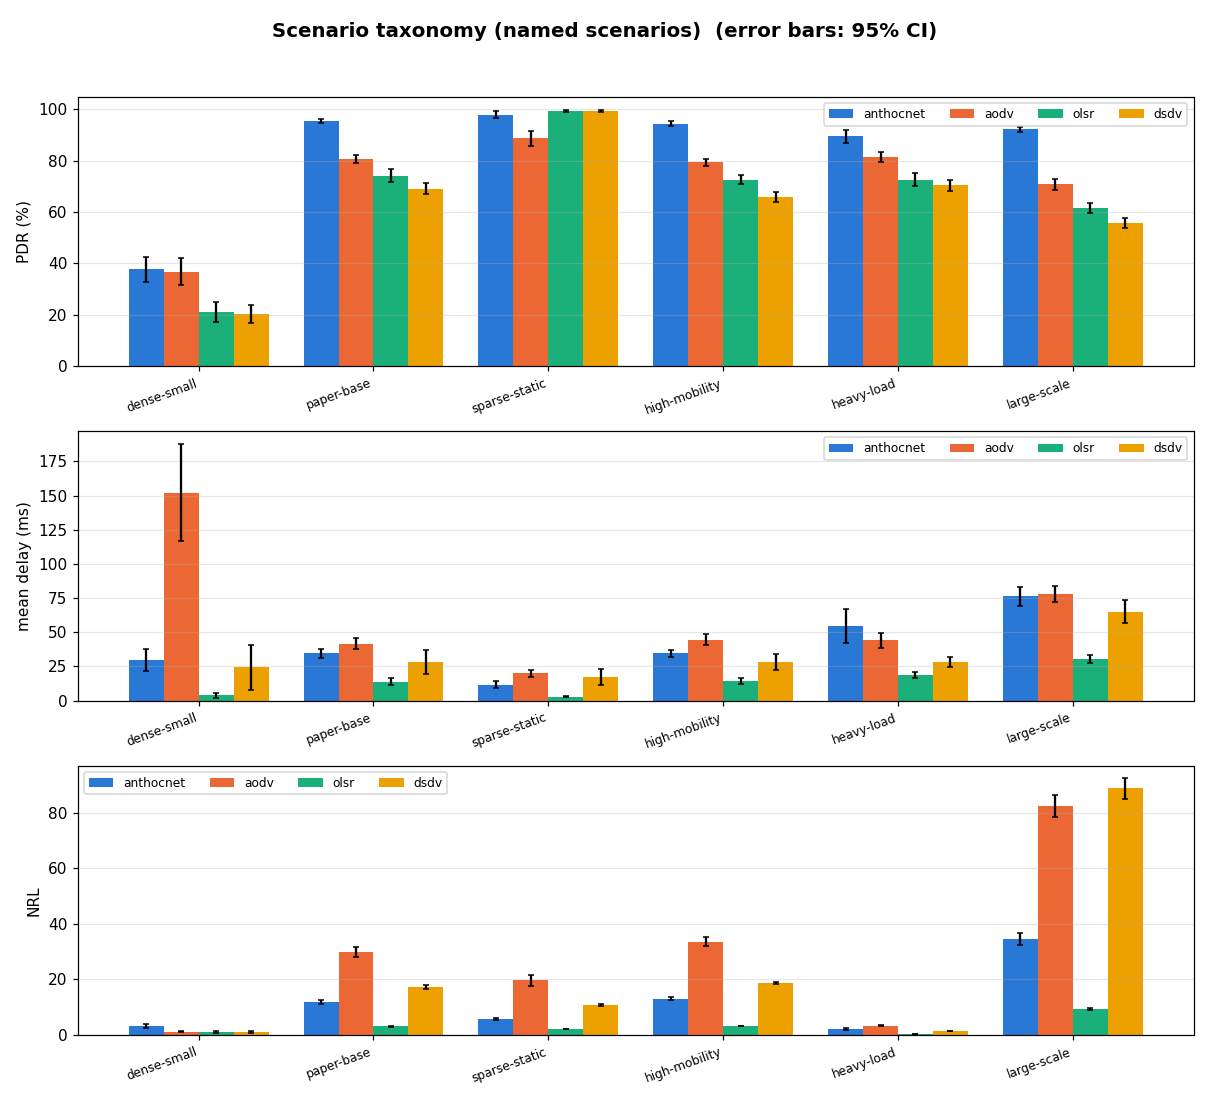
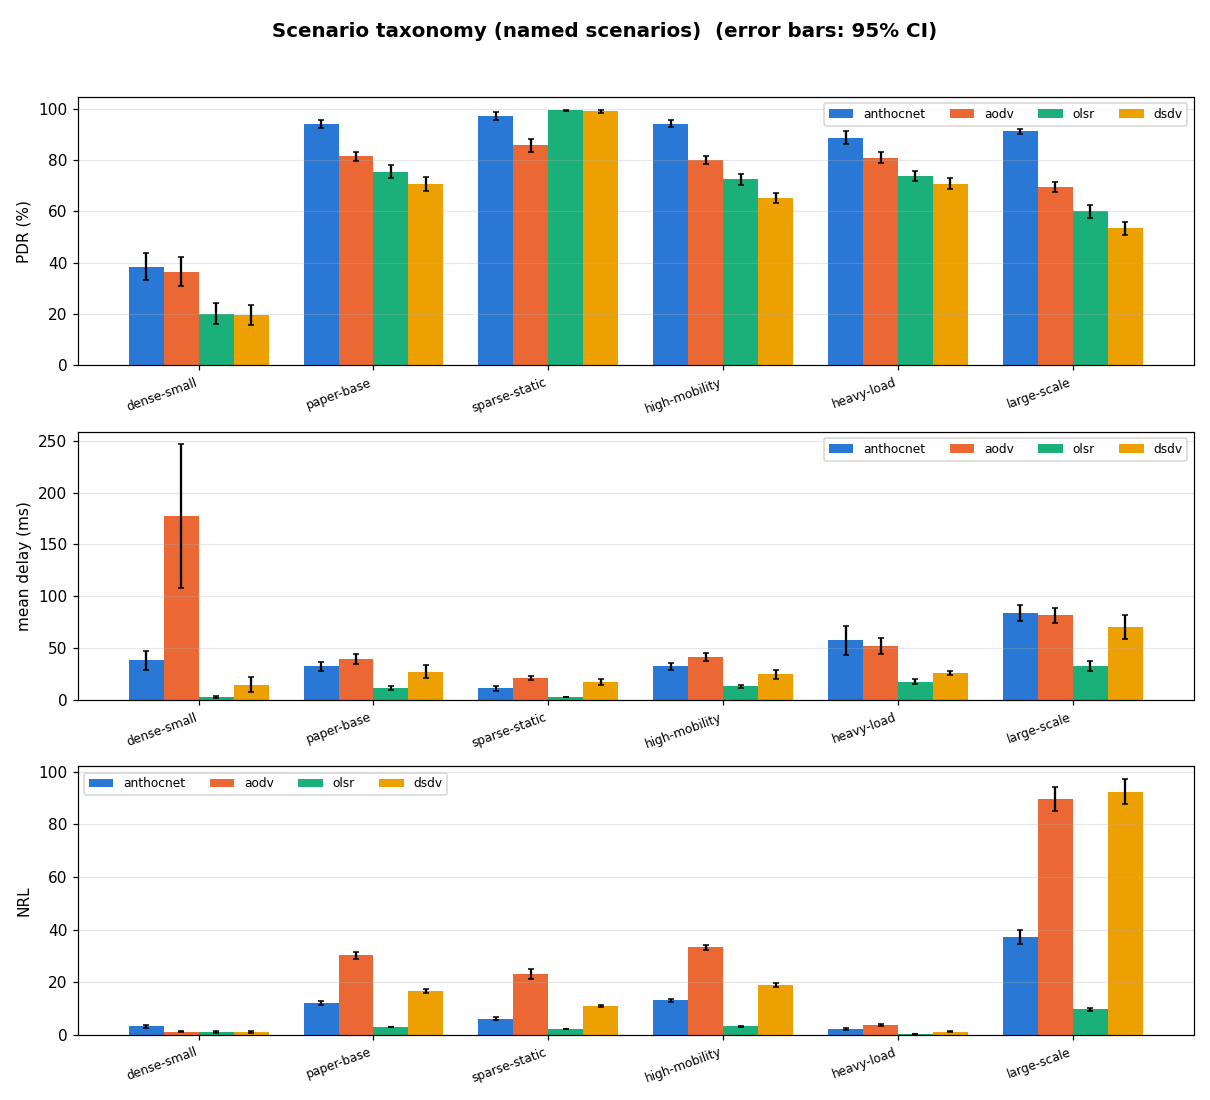
chore(benchmarks): refresh benchmark results and charts

diff --git a/docs/benchmarks.md b/docs/benchmarks.md
@@ -127,18 +127,18 @@ code. The heavier parameter sweeps are campaigns on `benchmark-cell`.
 <!-- BENCHMARK-TABLE-START -->
 _Scenario taxonomy — **PDR % ± 95% CI**, mean of 20 run(s) per scenario, every baseline on identical realisations. Full per-scenario metrics (delay, tail, NRL, jitter) are on the linked pages. Generated by `run-scenarios.py`; charts by `make-charts.py`._
 
-_Measured at [`7c36c77`](https://github.com/swarm-routing/AntHocNet/commit/7c36c77f3a5243fed91169f02ef9d0095b7a404b) on `ghcr.io/swarm-routing/anthocnet-dev@sha256:8c90c2fb7d8253f2d3a864450110948cd969e48e3fefcf8ee9f2a18bd94a6136`, ns-3 3.48, [run](https://github.com/swarm-routing/AntHocNet/actions/runs/44528917983)._
+_Measured at [`1d52eba`](https://github.com/swarm-routing/AntHocNet/commit/1d52ebac5f645edd69722b1642963fb0dd3cf599) on `ghcr.io/swarm-routing/anthocnet-dev@sha256:2d926f73cea1dc384db14dd234645a957e2d0c2cd2a3098986e5b7bc6695ebef`, ns-3 3.49, [run](https://github.com/swarm-routing/AntHocNet/actions/runs/45418533599)._
 
 ![scenario taxonomy](benchmarks/discrete-summary.png)
 
 | scenario | class | anthocnet | aodv | olsr | dsdv |
 |---|---|---:|---:|---:|---:|
-| [dense-small](benchmarks/scenarios/dense-small.md) | dense / low-mobility | 37.7 ± 4.8 | 36.7 ± 5.2 | 21.2 ± 3.9 | 20.3 ± 3.6 |
-| [paper-base](benchmarks/scenarios/paper-base.md) | sparse / mobile | 95.4 ± 0.7 | 80.6 ± 1.7 | 74.1 ± 2.5 | 69.0 ± 2.2 |
-| [sparse-static](benchmarks/scenarios/sparse-static.md) | sparse / static | 97.9 ± 1.3 | 88.7 ± 3.0 | 99.4 ± 0.4 | 99.2 ± 0.4 |
-| [high-mobility](benchmarks/scenarios/high-mobility.md) | sparse / high-mobility | 94.4 ± 0.9 | 79.3 ± 1.4 | 72.6 ± 1.9 | 65.9 ± 1.9 |
-| [heavy-load](benchmarks/scenarios/heavy-load.md) | dense / heavy-load | 89.4 ± 2.6 | 81.3 ± 2.0 | 72.6 ± 2.6 | 70.3 ± 2.1 |
-| [large-scale](benchmarks/scenarios/large-scale.md) | large / mobile | 92.2 ± 1.0 | 70.7 ± 2.0 | 61.6 ± 2.0 | 55.6 ± 1.9 |
+| [dense-small](benchmarks/scenarios/dense-small.md) | dense / low-mobility | 38.5 ± 5.4 | 36.5 ± 5.7 | 20.1 ± 4.0 | 19.6 ± 4.1 |
+| [paper-base](benchmarks/scenarios/paper-base.md) | sparse / mobile | 94.1 ± 1.5 | 81.6 ± 1.8 | 75.5 ± 2.5 | 70.6 ± 2.8 |
+| [sparse-static](benchmarks/scenarios/sparse-static.md) | sparse / static | 97.3 ± 1.5 | 85.8 ± 2.6 | 99.5 ± 0.2 | 99.0 ± 0.4 |
+| [high-mobility](benchmarks/scenarios/high-mobility.md) | sparse / high-mobility | 94.3 ± 1.3 | 80.1 ± 1.6 | 72.5 ± 2.1 | 65.4 ± 2.0 |
+| [heavy-load](benchmarks/scenarios/heavy-load.md) | dense / heavy-load | 88.8 ± 2.5 | 80.9 ± 2.1 | 73.9 ± 1.9 | 70.9 ± 2.2 |
+| [large-scale](benchmarks/scenarios/large-scale.md) | large / mobile | 91.2 ± 1.1 | 69.6 ± 1.9 | 60.0 ± 2.7 | 53.5 ± 2.5 |
 
 <!-- BENCHMARK-TABLE-END -->
 

diff --git a/docs/benchmarks/scenarios/heavy-load.md b/docs/benchmarks/scenarios/heavy-load.md
@@ -51,13 +51,13 @@ cbrBps=4096`). The nightly `benchmarks` workflow runs the taxonomy at 20 seeds
 <!-- BENCHMARK-TABLE-START -->
 _Mean of 20 run(s), every baseline on identical realisations; ± is the 95% CI half-width (#293). Generated by `run-scenarios.py`._
 
-_Measured at [`7c36c77`](https://github.com/swarm-routing/AntHocNet/commit/7c36c77f3a5243fed91169f02ef9d0095b7a404b) on `ghcr.io/swarm-routing/anthocnet-dev@sha256:8c90c2fb7d8253f2d3a864450110948cd969e48e3fefcf8ee9f2a18bd94a6136`, ns-3 3.48, [run](https://github.com/swarm-routing/AntHocNet/actions/runs/44528917983)._
+_Measured at [`1d52eba`](https://github.com/swarm-routing/AntHocNet/commit/1d52ebac5f645edd69722b1642963fb0dd3cf599) on `ghcr.io/swarm-routing/anthocnet-dev@sha256:2d926f73cea1dc384db14dd234645a957e2d0c2cd2a3098986e5b7bc6695ebef`, ns-3 3.49, [run](https://github.com/swarm-routing/AntHocNet/actions/runs/45418533599)._
 
 | protocol | PDR % ±95 | mean delay (ms) ±95 | 99th delay (ms) ±95 | throughput (kbps) | NRL ±95 | jitter (ms) | dOff90 (ms) |
 |----------|----------:|--------------------:|--------------------:|------------------:|--------:|------------:|------------:|
-| anthocnet | 89.4 ± 2.6 | 54.5 ± 12.3 | 714.1 ± 109.3 | 127.57 | 2.109 ± 0.29 | 36.79 | inf |
-| aodv | 81.3 ± 2.0 | 44.0 ± 5.3 | 712.0 ± 54.1 | 116.05 | 3.358 ± 0.17 | 33.58 | inf |
-| olsr | 72.6 ± 2.6 | 18.5 ± 2.1 | 550.9 ± 103.4 | 103.59 | 0.234 ± 0.01 | 13.07 | inf |
-| dsdv | 70.3 ± 2.1 | 27.9 ± 3.7 | 771.5 ± 62.1 | 100.27 | 1.275 ± 0.04 | 17.44 | inf |
+| anthocnet | 88.8 ± 2.5 | 57.4 ± 14.4 | 723.6 ± 115.1 | 126.76 | 2.274 ± 0.31 | 37.35 | inf |
+| aodv | 80.9 ± 2.1 | 52.0 ± 7.6 | 762.8 ± 74.5 | 115.40 | 3.714 ± 0.29 | 37.83 | inf |
+| olsr | 73.9 ± 1.9 | 17.8 ± 2.1 | 525.1 ± 119.8 | 105.48 | 0.229 ± 0.01 | 12.97 | inf |
+| dsdv | 70.9 ± 2.2 | 26.0 ± 2.2 | 757.9 ± 55.2 | 101.21 | 1.263 ± 0.04 | 17.38 | inf |
 
 <!-- BENCHMARK-TABLE-END -->

diff --git a/docs/benchmarks/scenarios/paper-base.md b/docs/benchmarks/scenarios/paper-base.md
@@ -52,13 +52,13 @@ nightly `benchmarks` workflow runs the taxonomy at 20 seeds (#977).
 <!-- BENCHMARK-TABLE-START -->
 _Mean of 20 run(s), every baseline on identical realisations; ± is the 95% CI half-width (#293). Generated by `run-scenarios.py`._
 
-_Measured at [`7c36c77`](https://github.com/swarm-routing/AntHocNet/commit/7c36c77f3a5243fed91169f02ef9d0095b7a404b) on `ghcr.io/swarm-routing/anthocnet-dev@sha256:8c90c2fb7d8253f2d3a864450110948cd969e48e3fefcf8ee9f2a18bd94a6136`, ns-3 3.48, [run](https://github.com/swarm-routing/AntHocNet/actions/runs/44528917983)._
+_Measured at [`1d52eba`](https://github.com/swarm-routing/AntHocNet/commit/1d52ebac5f645edd69722b1642963fb0dd3cf599) on `ghcr.io/swarm-routing/anthocnet-dev@sha256:2d926f73cea1dc384db14dd234645a957e2d0c2cd2a3098986e5b7bc6695ebef`, ns-3 3.49, [run](https://github.com/swarm-routing/AntHocNet/actions/runs/45418533599)._
 
 | protocol | PDR % ±95 | mean delay (ms) ±95 | 99th delay (ms) ±95 | throughput (kbps) | NRL ±95 | jitter (ms) | dOff90 (ms) |
 |----------|----------:|--------------------:|--------------------:|------------------:|--------:|------------:|------------:|
-| anthocnet | 95.4 ± 0.7 | 34.5 ± 3.4 | 831.4 ± 130.4 | 10.24 | 11.938 ± 0.69 | 48.88 | 155.1 |
-| aodv | 80.6 ± 1.7 | 41.6 ± 3.9 | 924.4 ± 94.0 | 8.64 | 29.790 ± 1.72 | 59.77 | inf |
-| olsr | 74.1 ± 2.5 | 13.9 ± 2.5 | 235.4 ± 156.5 | 7.94 | 3.062 ± 0.11 | 20.03 | inf |
-| dsdv | 69.0 ± 2.2 | 28.4 ± 8.7 | 814.8 ± 143.4 | 7.40 | 17.147 ± 0.67 | 39.03 | inf |
+| anthocnet | 94.1 ± 1.5 | 32.4 ± 4.1 | 705.1 ± 121.2 | 10.10 | 12.018 ± 0.83 | 44.32 | inf |
+| aodv | 81.6 ± 1.8 | 39.7 ± 4.6 | 926.1 ± 111.4 | 8.75 | 30.332 ± 1.33 | 59.21 | inf |
+| olsr | 75.5 ± 2.5 | 11.8 ± 1.7 | 135.8 ± 139.7 | 8.09 | 3.021 ± 0.11 | 17.23 | inf |
+| dsdv | 70.6 ± 2.8 | 27.5 ± 5.9 | 769.4 ± 161.7 | 7.57 | 16.783 ± 0.71 | 36.17 | inf |
 
 <!-- BENCHMARK-TABLE-END -->

diff --git a/docs/benchmarks/scenarios/large-scale.md b/docs/benchmarks/scenarios/large-scale.md
@@ -50,13 +50,13 @@ workflow runs the taxonomy at 20 seeds (#977).
 <!-- BENCHMARK-TABLE-START -->
 _Mean of 20 run(s), every baseline on identical realisations; ± is the 95% CI half-width (#293). Generated by `run-scenarios.py`._
 
-_Measured at [`7c36c77`](https://github.com/swarm-routing/AntHocNet/commit/7c36c77f3a5243fed91169f02ef9d0095b7a404b) on `ghcr.io/swarm-routing/anthocnet-dev@sha256:8c90c2fb7d8253f2d3a864450110948cd969e48e3fefcf8ee9f2a18bd94a6136`, ns-3 3.48, [run](https://github.com/swarm-routing/AntHocNet/actions/runs/44528917983)._
+_Measured at [`1d52eba`](https://github.com/swarm-routing/AntHocNet/commit/1d52ebac5f645edd69722b1642963fb0dd3cf599) on `ghcr.io/swarm-routing/anthocnet-dev@sha256:2d926f73cea1dc384db14dd234645a957e2d0c2cd2a3098986e5b7bc6695ebef`, ns-3 3.49, [run](https://github.com/swarm-routing/AntHocNet/actions/runs/45418533599)._
 
 | protocol | PDR % ±95 | mean delay (ms) ±95 | 99th delay (ms) ±95 | throughput (kbps) | NRL ±95 | jitter (ms) | dOff90 (ms) |
 |----------|----------:|--------------------:|--------------------:|------------------:|--------:|------------:|------------:|
-| anthocnet | 92.2 ± 1.0 | 76.3 ± 6.9 | 1293.9 ± 78.9 | 9.90 | 34.410 ± 2.15 | 107.39 | inf |
-| aodv | 70.7 ± 2.0 | 77.9 ± 6.1 | 1355.8 ± 139.3 | 7.59 | 82.360 ± 3.88 | 107.35 | inf |
-| olsr | 61.6 ± 2.0 | 30.2 ± 2.9 | 1016.0 ± 2.8 | 6.61 | 9.415 ± 0.40 | 46.08 | inf |
-| dsdv | 55.6 ± 1.9 | 64.9 ± 8.4 | 1136.2 ± 113.2 | 5.96 | 88.727 ± 3.62 | 92.49 | inf |
+| anthocnet | 91.2 ± 1.1 | 83.8 ± 7.9 | 1402.1 ± 126.3 | 9.79 | 37.309 ± 2.63 | 117.86 | inf |
+| aodv | 69.6 ± 1.9 | 81.5 ± 7.5 | 1409.9 ± 130.9 | 7.46 | 89.610 ± 4.56 | 112.51 | inf |
+| olsr | 60.0 ± 2.7 | 32.7 ± 4.8 | 971.0 ± 100.2 | 6.44 | 9.720 ± 0.50 | 50.57 | inf |
+| dsdv | 53.5 ± 2.5 | 70.3 ± 11.7 | 1203.8 ± 196.0 | 5.74 | 92.338 ± 4.74 | 92.86 | inf |
 
 <!-- BENCHMARK-TABLE-END -->

diff --git a/docs/benchmarks/scenarios/dense-small.md b/docs/benchmarks/scenarios/dense-small.md
@@ -50,13 +50,13 @@ Defined as `DISCRETE["dense-small"]` in
 <!-- BENCHMARK-TABLE-START -->
 _Mean of 20 run(s), every baseline on identical realisations; ± is the 95% CI half-width (#293). Generated by `run-scenarios.py`._
 
-_Measured at [`7c36c77`](https://github.com/swarm-routing/AntHocNet/commit/7c36c77f3a5243fed91169f02ef9d0095b7a404b) on `ghcr.io/swarm-routing/anthocnet-dev@sha256:8c90c2fb7d8253f2d3a864450110948cd969e48e3fefcf8ee9f2a18bd94a6136`, ns-3 3.48, [run](https://github.com/swarm-routing/AntHocNet/actions/runs/44528917983)._
+_Measured at [`1d52eba`](https://github.com/swarm-routing/AntHocNet/commit/1d52ebac5f645edd69722b1642963fb0dd3cf599) on `ghcr.io/swarm-routing/anthocnet-dev@sha256:2d926f73cea1dc384db14dd234645a957e2d0c2cd2a3098986e5b7bc6695ebef`, ns-3 3.49, [run](https://github.com/swarm-routing/AntHocNet/actions/runs/45418533599)._
 
 | protocol | PDR % ±95 | mean delay (ms) ±95 | 99th delay (ms) ±95 | throughput (kbps) | NRL ±95 | jitter (ms) | dOff90 (ms) |
 |----------|----------:|--------------------:|--------------------:|------------------:|--------:|------------:|------------:|
-| anthocnet | 37.7 ± 4.8 | 29.7 ± 8.0 | 862.2 ± 390.6 | 16.84 | 3.266 ± 0.63 | 9.44 | inf |
-| aodv | 36.7 ± 5.2 | 152.2 ± 35.5 | 4292.1 ± 661.3 | 16.40 | 1.098 ± 0.20 | 16.30 | inf |
-| olsr | 21.2 ± 3.9 | 3.9 ± 1.9 | 43.2 ± 48.0 | 9.44 | 1.037 ± 0.41 | 1.45 | inf |
-| dsdv | 20.3 ± 3.6 | 24.3 ± 16.7 | 529.5 ± 998.9 | 9.08 | 1.161 ± 0.43 | 15.69 | inf |
+| anthocnet | 38.5 ± 5.4 | 38.3 ± 9.1 | 1190.0 ± 415.3 | 17.20 | 3.216 ± 0.58 | 10.03 | inf |
+| aodv | 36.5 ± 5.7 | 177.2 ± 69.1 | 3667.4 ± 1049.2 | 16.29 | 1.164 ± 0.20 | 18.59 | inf |
+| olsr | 20.1 ± 4.0 | 2.7 ± 1.1 | 22.2 ± 22.8 | 8.97 | 1.023 ± 0.28 | 0.90 | inf |
+| dsdv | 19.6 ± 4.1 | 14.6 ± 7.2 | 96.5 ± 61.4 | 8.74 | 1.113 ± 0.31 | 8.00 | inf |
 
 <!-- BENCHMARK-TABLE-END -->

diff --git a/docs/benchmarks/scenarios/high-mobility.md b/docs/benchmarks/scenarios/high-mobility.md
@@ -50,13 +50,13 @@ taxonomy at 20 seeds (#977).
 <!-- BENCHMARK-TABLE-START -->
 _Mean of 20 run(s), every baseline on identical realisations; ± is the 95% CI half-width (#293). Generated by `run-scenarios.py`._
 
-_Measured at [`7c36c77`](https://github.com/swarm-routing/AntHocNet/commit/7c36c77f3a5243fed91169f02ef9d0095b7a404b) on `ghcr.io/swarm-routing/anthocnet-dev@sha256:8c90c2fb7d8253f2d3a864450110948cd969e48e3fefcf8ee9f2a18bd94a6136`, ns-3 3.48, [run](https://github.com/swarm-routing/AntHocNet/actions/runs/44528917983)._
+_Measured at [`1d52eba`](https://github.com/swarm-routing/AntHocNet/commit/1d52ebac5f645edd69722b1642963fb0dd3cf599) on `ghcr.io/swarm-routing/anthocnet-dev@sha256:2d926f73cea1dc384db14dd234645a957e2d0c2cd2a3098986e5b7bc6695ebef`, ns-3 3.49, [run](https://github.com/swarm-routing/AntHocNet/actions/runs/45418533599)._
 
 | protocol | PDR % ±95 | mean delay (ms) ±95 | 99th delay (ms) ±95 | throughput (kbps) | NRL ±95 | jitter (ms) | dOff90 (ms) |
 |----------|----------:|--------------------:|--------------------:|------------------:|--------:|------------:|------------:|
-| anthocnet | 94.4 ± 0.9 | 34.4 ± 2.3 | 757.9 ± 101.4 | 10.13 | 13.065 ± 0.58 | 50.64 | 237.9 |
-| aodv | 79.3 ± 1.4 | 44.5 ± 3.9 | 961.0 ± 77.8 | 8.51 | 33.576 ± 1.72 | 67.06 | inf |
-| olsr | 72.6 ± 1.9 | 14.0 ± 2.1 | 186.3 ± 165.6 | 7.78 | 3.198 ± 0.08 | 21.36 | inf |
-| dsdv | 65.9 ± 1.9 | 28.4 ± 5.8 | 703.2 ± 154.5 | 7.06 | 18.696 ± 0.48 | 37.11 | inf |
+| anthocnet | 94.3 ± 1.3 | 32.7 ± 3.4 | 690.4 ± 131.2 | 10.12 | 13.108 ± 0.71 | 48.95 | inf |
+| aodv | 80.1 ± 1.6 | 41.8 ± 3.8 | 940.6 ± 70.6 | 8.60 | 33.202 ± 1.12 | 62.31 | inf |
+| olsr | 72.5 ± 2.1 | 13.3 ± 1.6 | 250.4 ± 184.4 | 7.78 | 3.219 ± 0.14 | 20.51 | inf |
+| dsdv | 65.4 ± 2.0 | 24.8 ± 4.6 | 845.5 ± 145.7 | 7.03 | 18.928 ± 0.84 | 34.74 | inf |
 
 <!-- BENCHMARK-TABLE-END -->

diff --git a/docs/benchmarks/scenarios/sparse-static.md b/docs/benchmarks/scenarios/sparse-static.md
@@ -50,13 +50,13 @@ taxonomy at 20 seeds (#977).
 <!-- BENCHMARK-TABLE-START -->
 _Mean of 20 run(s), every baseline on identical realisations; ± is the 95% CI half-width (#293). Generated by `run-scenarios.py`._
 
-_Measured at [`7c36c77`](https://github.com/swarm-routing/AntHocNet/commit/7c36c77f3a5243fed91169f02ef9d0095b7a404b) on `ghcr.io/swarm-routing/anthocnet-dev@sha256:8c90c2fb7d8253f2d3a864450110948cd969e48e3fefcf8ee9f2a18bd94a6136`, ns-3 3.48, [run](https://github.com/swarm-routing/AntHocNet/actions/runs/44528917983)._
+_Measured at [`1d52eba`](https://github.com/swarm-routing/AntHocNet/commit/1d52ebac5f645edd69722b1642963fb0dd3cf599) on `ghcr.io/swarm-routing/anthocnet-dev@sha256:2d926f73cea1dc384db14dd234645a957e2d0c2cd2a3098986e5b7bc6695ebef`, ns-3 3.49, [run](https://github.com/swarm-routing/AntHocNet/actions/runs/45418533599)._
 
 | protocol | PDR % ±95 | mean delay (ms) ±95 | 99th delay (ms) ±95 | throughput (kbps) | NRL ±95 | jitter (ms) | dOff90 (ms) |
 |----------|----------:|--------------------:|--------------------:|------------------:|--------:|------------:|------------:|
-| anthocnet | 97.9 ± 1.3 | 11.6 ± 2.5 | 87.3 ± 104.8 | 10.51 | 5.861 ± 0.34 | 6.53 | inf |
-| aodv | 88.7 ± 3.0 | 19.8 ± 2.4 | 324.8 ± 56.4 | 9.51 | 19.658 ± 2.02 | 26.14 | inf |
-| olsr | 99.4 ± 0.4 | 2.8 ± 0.3 | 9.9 ± 1.1 | 10.66 | 2.157 ± 0.05 | 0.73 | 4.5 |
-| dsdv | 99.2 ± 0.4 | 17.3 ± 5.9 | 239.8 ± 93.5 | 10.65 | 10.804 ± 0.39 | 20.21 | 6.8 |
+| anthocnet | 97.3 ± 1.5 | 11.4 ± 2.3 | 43.7 ± 15.8 | 10.45 | 6.123 ± 0.56 | 6.83 | inf |
+| aodv | 85.8 ± 2.6 | 21.3 ± 2.2 | 357.8 ± 41.4 | 9.21 | 23.192 ± 1.99 | 27.95 | inf |
+| olsr | 99.5 ± 0.2 | 3.0 ± 0.4 | 10.7 ± 1.2 | 10.67 | 2.157 ± 0.06 | 1.02 | 4.7 |
+| dsdv | 99.0 ± 0.4 | 17.3 ± 3.1 | 238.9 ± 94.1 | 10.62 | 10.866 ± 0.35 | 19.75 | 6.8 |
 
 <!-- BENCHMARK-TABLE-END -->
